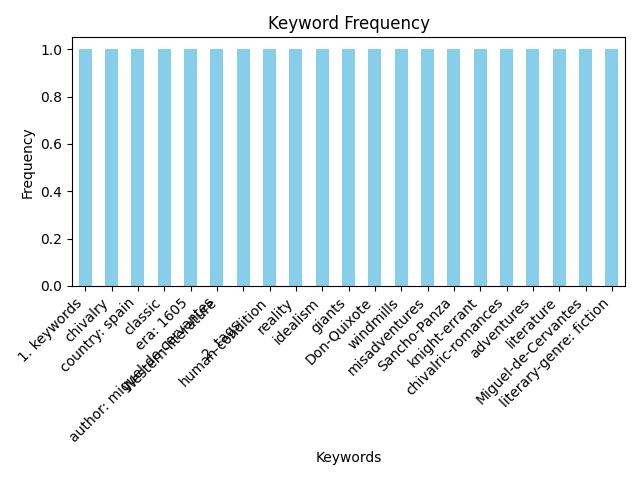
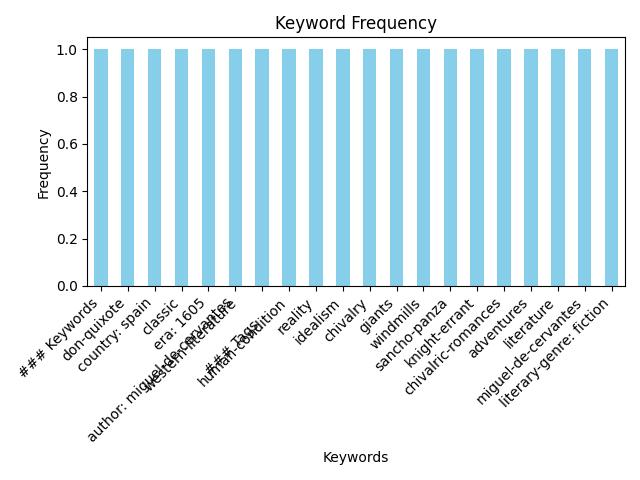
chore: commit save point

Changed region(s): [[0.0312, 0.0938, 0.9062, 0.9375], [0.4062, 0.0312, 0.6875, 0.0625], [0.5, 0.9375, 0.625, 0.9688]]

diff --git a/main.py b/main.py
@@ -37,7 +37,6 @@ def generate_tag_cloud(keywords: str, output_path: str):
 
     # Eliminamos líneas no válidas como "### tags" o caracteres extraños
     keywords_list = [kw for kw in keywords_list if not kw.lower().startswith("###")]
-    keywords_list = [kw.replace("\n", "").strip() for kw in keywords_list]  # Eliminamos caracteres extraños como \n
 
     # Procesamos los valores de los tags para extraer solo el contenido después de ":"
     processed_keywords = []
@@ -54,15 +53,22 @@ def generate_tag_cloud(keywords: str, output_path: str):
     # Filtramos stop words y lematizamos las palabras clave
     filtered_keywords = []
     for word in processed_keywords:
-        # Mantener palabras con guiones como una sola unidad
         if "-" in word:
-            normalized_word = "-".join([lemmatizer.lemmatize(w.lower()) for w in word.split("-")])
+            # Dividimos la palabra en sus componentes y eliminamos stop words
+            components = word.split("-")
+            filtered_components = [
+                lemmatizer.lemmatize(w.lower()) for w in components
+                if lemmatizer.lemmatize(w.lower()) not in normalized_stopwords
+            ]
+            # Si quedan componentes válidos, los unimos con guiones
+            if filtered_components:
+                normalized_word = "-".join(filtered_components)
+                filtered_keywords.append(normalized_word)
         else:
+            # Procesamos palabras sin guiones
             normalized_word = lemmatizer.lemmatize(word.lower())
-
-        # Filtrar si la palabra normalizada no está en las stop words
-        if normalized_word not in normalized_stopwords:
-            filtered_keywords.append(normalized_word)
+            if normalized_word not in normalized_stopwords:
+                filtered_keywords.append(normalized_word)
 
     # Depuración: Imprimir listas para verificar el filtrado
     print(f"\nOriginal Keywords List: {keywords_list}")
